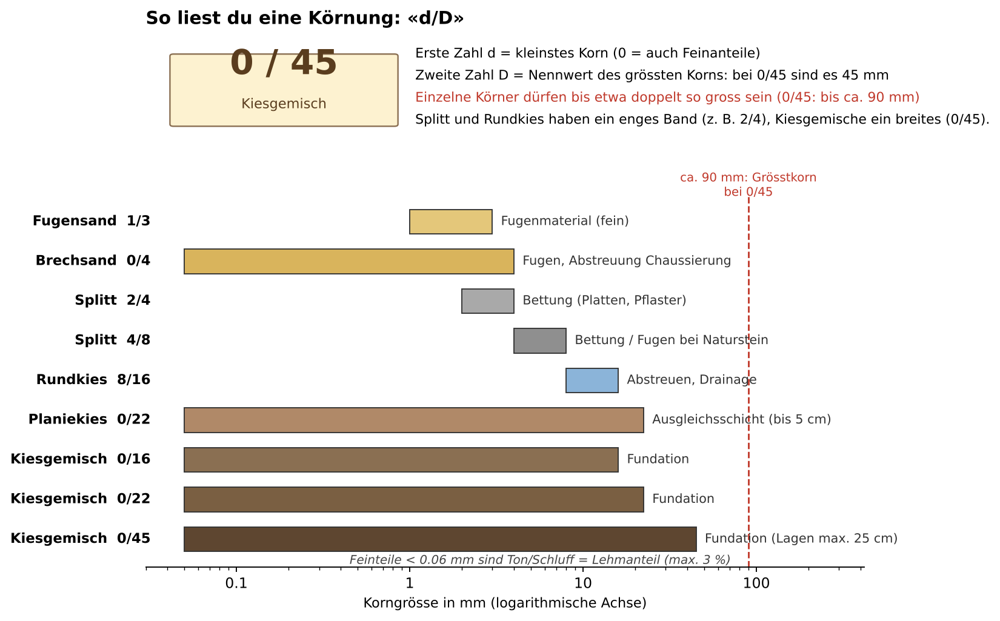
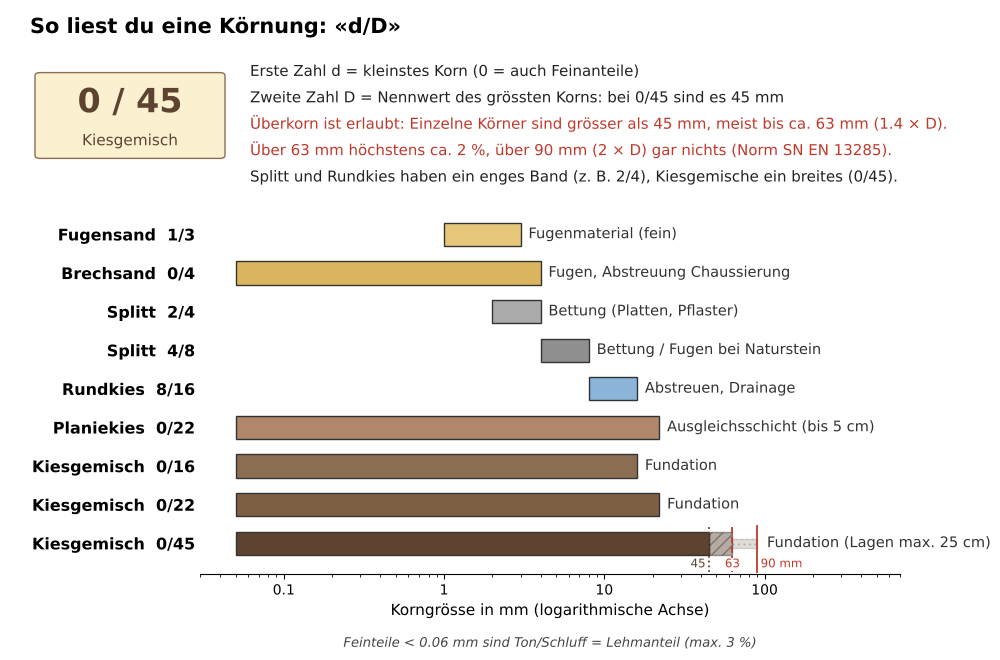
Belagsaufbau: Korngrössen nach Norm korrigiert (Überkorn statt «Grösstkorn ca. 90 mm»)
Quiz Körnungen (4 Fragen), Lernkarte 0/45 und Grafik korngroesse.png angepasst.
Nennwert D, Überkorn meist bis 1.4 × D (63 mm), absolute Obergrenze 2 × D (90 mm).
Fragenzahl und Reihenfolge unverändert, gespeicherter Fortschritt bleibt gültig.

Claude-Session: https://claude.ai/code/session_01BwZckB3sWXSTZ1BpiqGMYE

Changed region(s): [[0.0, 0.3366, 0.992, 0.9791], [0.031, 0.0, 0.992, 0.3366], [0.031, 0.3366, 0.217, 0.3671]]

diff --git a/belagsaufbau/koernung/index.html b/belagsaufbau/koernung/index.html
@@ -2,4 +2,4 @@
 <div class="hero"><a href="../">← Alle Lernpfade</a><div class="who" id="who"></div><h1>🔬 Körnungen und Fundationsmaterial</h1><p>Was bedeuten 0/45, 2/4 oder 4/8? Welches Material gehört in welche Schicht und warum?</p></div>
 <div class="wrap"><div class="chips" style="margin:0 0 .8rem"><span class="chip">L169</span></div><div id="stg"></div><div id="app"></div></div>
 <script src="../assets/config.js"></script><script src="../assets/core.js"></script>
-<script>const CFG={"type": "multi", "title": "Körnungen und Fundationsmaterial", "slug": "koernung", "stages": [{"type": "quiz", "title": "Körnungen lesen", "questions": [{"q": "Was bedeutet die Angabe <b>0/45</b>?", "opts": ["Korngemisch vom Feinen bis zum Nennwert 45 mm", "Nur Körner von genau 45 mm", "45 Prozent Feinanteil", "Körnung in Zentimetern"], "a": 0, "why": "0 = kleinstes Korn (auch Feinanteile), 45 = Nennwert des grössten Korns in mm.", "img": "img/korngroesse.png"}, {"q": "Wie gross kann das <b>Grösstkorn</b> bei Kiesgemisch 0/45 sein?", "opts": ["22 mm", "45 mm", "ca. 90 mm", "150 mm"], "a": 2, "why": "Einzelne Körner dürfen bis etwa doppelt so gross sein.", "img": "img/korngroesse.png"}, {"q": "Welche Körnung eignet sich für die <b>Bettung</b> unter Platten und Pflaster?", "opts": ["Splitt 2/4", "Kiesgemisch 0/45", "Rundkies 16/32", "Mergel"], "a": 0, "why": "Bettung: Splitt 2/4 (oder 4/8 bei Naturstein)."}, {"q": "Welche Körnung wird als <b>Fundation</b> eingebaut?", "opts": ["Fugensand 1/3", "Kiesgemisch 0/45", "Brechsand 0/4", "Splitt 2/4"], "a": 1, "why": "Kiesgemisch 0/16, 0/22 oder 0/45."}, {"q": "Welches Material gehört in die <b>Ausgleichsschicht</b>?", "opts": ["Planiekies 0/22", "Mergel", "Humus", "Findlinge"], "a": 0, "why": "Gebrochene Kiessandgemische wie Planiekies 0/22."}, {"q": "Warum ist ein Kiesgemisch <b>0/45</b> für die Reinplanie (±1 cm) ungeeignet?", "opts": ["Das Grösstkorn (ca. 90 mm) ist zu gross", "Es ist zu fein", "Es ist zu teuer", "Es ist nicht frostsicher"], "a": 0, "why": "Einzelne grosse Körner verhindern die genaue Oberfläche, darum die Ausgleichsschicht."}, {"q": "Wie viel Lehm darf ein Kiesgemisch für die Fundation höchstens enthalten?", "opts": ["0 %", "3 %", "10 %", "25 %"], "a": 1, "why": "Lehmanteil max. 3 %."}, {"q": "Welche Körnung passt zum <b>Einwischen der Fugen</b> von Verbundsteinen?", "opts": ["Brechsand 0/4", "Kiesgemisch 0/45", "Rundkies 16/32", "Schotter 32/63"], "a": 0, "why": "Fugen mit Brechsand 0/4."}]}, {"type": "quiz", "title": "Material geeignet oder nicht?", "questions": [{"q": "Kiesgemisch 0/45 als Fundationsmaterial?", "opts": ["Geeignet", "Nicht geeignet"], "a": 0, "why": "Kiesgemische 0/16, 0/22, 0/45 sind frostsicher und wasserdurchlässig."}, {"q": "Mergel als Fundationsmaterial?", "opts": ["Geeignet", "Nicht geeignet"], "a": 1, "why": "Mergel enthält viel Ton, ist nicht frostsicher und wird nur als Deckschicht (Chaussierung) eingebaut."}, {"q": "Oberboden / Humus in der Fundation?", "opts": ["Geeignet", "Nicht geeignet"], "a": 1, "why": "Frostsicher ist ein Material nur, wenn es kein organisches Material enthält."}, {"q": "Wie hoch darf der Lehmanteil eines Kiesgemischs höchstens sein?", "opts": ["0 %", "3 %", "10 %", "25 %"], "a": 1, "why": "Der Lehmanteil beträgt maximal 3 %."}, {"q": "Wie gross ist das Grösstkorn bei Kiesgemisch 0/45?", "opts": ["22 mm", "45 mm", "ca. 90 mm", "150 mm"], "a": 2, "why": "Das Einzelkorn kann bis ca. doppelt so gross wie der Nennwert sein (90 mm)."}, {"q": "Wofür wird Planiekies 0/22 verwendet?", "opts": ["Für die Fundation (untere Lage)", "Für die Ausgleichsschicht", "Für die Deckschicht", "Als Randbeton"], "a": 1, "why": "Gebrochene Kiessandgemische (Planiekies, Strassenkies, Flickschotter 0/16–0/22) dienen als Ausgleichsschicht."}, {"q": "Wie dick ist die Ausgleichsschicht höchstens?", "opts": ["1 cm", "5 cm", "10 cm", "25 cm"], "a": 1, "why": "Empfohlen bis 5 cm."}, {"q": "Was ist RC-Kies?", "opts": ["Reiner Rundkies", "Recycling-Kiesgemisch", "Rohkies, nicht gebrochen", "Rasenkies"], "a": 1, "why": "RC-Kiesgemische sind Recycling-Gemische (z. B. A, B, P); wo möglich sollen sie eingesetzt werden."}, {"q": "Wird Sickerbeton als Fundation verwendet, dann ...", "opts": ["verdoppelt sich die Schichtstärke", "reduziert sich die Schichtstärke um 50 %", "bleibt die Schichtstärke gleich", "ist keine Fundation nötig"], "a": 1, "why": "Bei Sickerbeton reduziert sich die geforderte Schichtstärke um 50 %."}, {"q": "Warum muss Fundationsmaterial frostsicher sein?", "opts": ["Damit es billiger ist", "Damit die Frostwirkung auf den Untergrund reduziert wird", "Damit es schöner aussieht", "Damit es rutscht"], "a": 1, "why": "Dadurch reduziert sich die Frostwirkung auf den Untergrund."}]}, {"type": "quiz", "title": "Fälle: Welches Material nimmst du?", "questions": [{"q": "Du brauchst Material für die Bettung unter Betonplatten. Was wählst du?", "opts": ["Kiesgemisch 0/45", "Splitt 2/4 (bzw. 4/8)", "Rundkies 8/16 ohne Feinanteil", "Humus"], "a": 1, "why": "Die Bettung besteht aus Splitt in kleiner Körnung, gut abziehbar."}, {"q": "Für die Fundation willst du ein Material, das sich gut verdichten lässt. Was ist wichtig?", "opts": ["Nur ein Korn, möglichst rund", "Ein Korngemisch von fein bis grob (z. B. 0/45), das sich verzahnt", "Nur Feinsand", "Lehmiger Aushub"], "a": 1, "why": "Ein abgestuftes Korngemisch verzahnt sich und wird dicht. Rundes Einkorn verdichtet schlecht."}, {"q": "Welche Aussage zu «0/45» stimmt?", "opts": ["Das kleinste Korn ist 45 mm", "Das grösste Korn ist 45 mm, es enthält auch Feines bis 0 mm", "Es ist ein Monokorn", "Es wird nur für Beton verwendet"], "a": 1, "why": "Die zweite Zahl ist das Grösstkorn, die erste das Kleinstkorn. 0/45 ist ein Gemisch."}, {"q": "Warum soll das Fundationsmaterial frostsicher und wasserdurchlässig sein?", "opts": ["Damit es billiger ist", "Damit sich kein Wasser staut, das im Winter gefriert und den Belag hebt", "Damit es schöner aussieht", "Damit es weniger wiegt"], "a": 1, "why": "Gefrierendes Wasser dehnt sich aus und hebt den Belag (Frosthebung)."}], "info": null, "count": 4}]};</script><script src="../assets/engine.js"></script><script>startApp()</script><p class="copy">© Tobias Abt, BBZ BL</p></body></html>
+<script>const CFG={"type": "multi", "title": "Körnungen und Fundationsmaterial", "slug": "koernung", "stages": [{"type": "quiz", "title": "Körnungen lesen", "questions": [{"q": "Was bedeutet die Angabe <b>0/45</b>?", "opts": ["Korngemisch vom Feinen bis zum Nennwert 45 mm", "Nur Körner von genau 45 mm", "45 Prozent Feinanteil", "Körnung in Zentimetern"], "a": 0, "why": "0 = kleinstes Korn (auch Feinanteile), 45 = Nennwert des grössten Korns in mm.", "img": "img/korngroesse.png"}, {"q": "Was stimmt beim Kiesgemisch <b>0/45</b> nach Norm?", "opts": ["Kein Korn ist grösser als 45 mm, alles darüber wird ausgesiebt", "Es hat nur Körner zwischen 0 und 22 mm, der Rest ist Sand", "Einzelne Körner dürfen grösser als 45 mm sein, aber nie über 90 mm", "Etwa die Hälfte der Körner ist grösser als 45 mm, bis 150 mm"], "a": 2, "why": "45 mm ist der Nennwert D. Überkorn ist erlaubt: meist bis ca. 63 mm (1.4 × D), darüber höchstens ca. 2 %, über 90 mm (2 × D) gar nichts.", "img": "img/korngroesse.png"}, {"q": "Welche Körnung eignet sich für die <b>Bettung</b> unter Platten und Pflaster?", "opts": ["Splitt 2/4", "Kiesgemisch 0/45", "Rundkies 16/32", "Mergel"], "a": 0, "why": "Bettung: Splitt 2/4 (oder 4/8 bei Naturstein)."}, {"q": "Welche Körnung wird als <b>Fundation</b> eingebaut?", "opts": ["Fugensand 1/3", "Kiesgemisch 0/45", "Brechsand 0/4", "Splitt 2/4"], "a": 1, "why": "Kiesgemisch 0/16, 0/22 oder 0/45."}, {"q": "Welches Material gehört in die <b>Ausgleichsschicht</b>?", "opts": ["Planiekies 0/22", "Mergel", "Humus", "Findlinge"], "a": 0, "why": "Gebrochene Kiessandgemische wie Planiekies 0/22."}, {"q": "Warum ist ein Kiesgemisch <b>0/45</b> für die Reinplanie (±1 cm) ungeeignet?", "opts": ["Die groben Körner (45 mm und mehr) sind viel zu gross", "Es ist zu fein", "Es ist zu teuer", "Es ist nicht frostsicher"], "a": 0, "why": "Für ±1 cm (= 10 mm) sind Körner von 45 mm und mehr viel zu gross. Darum kommt darauf die Ausgleichsschicht aus Planiekies 0/22."}, {"q": "Wie viel Lehm darf ein Kiesgemisch für die Fundation höchstens enthalten?", "opts": ["0 %", "3 %", "10 %", "25 %"], "a": 1, "why": "Lehmanteil max. 3 %."}, {"q": "Welche Körnung passt zum <b>Einwischen der Fugen</b> von Verbundsteinen?", "opts": ["Brechsand 0/4", "Kiesgemisch 0/45", "Rundkies 16/32", "Schotter 32/63"], "a": 0, "why": "Fugen mit Brechsand 0/4."}]}, {"type": "quiz", "title": "Material geeignet oder nicht?", "questions": [{"q": "Kiesgemisch 0/45 als Fundationsmaterial?", "opts": ["Geeignet", "Nicht geeignet"], "a": 0, "why": "Kiesgemische 0/16, 0/22, 0/45 sind frostsicher und wasserdurchlässig."}, {"q": "Mergel als Fundationsmaterial?", "opts": ["Geeignet", "Nicht geeignet"], "a": 1, "why": "Mergel enthält viel Ton, ist nicht frostsicher und wird nur als Deckschicht (Chaussierung) eingebaut."}, {"q": "Oberboden / Humus in der Fundation?", "opts": ["Geeignet", "Nicht geeignet"], "a": 1, "why": "Frostsicher ist ein Material nur, wenn es kein organisches Material enthält."}, {"q": "Wie hoch darf der Lehmanteil eines Kiesgemischs höchstens sein?", "opts": ["0 %", "3 %", "10 %", "25 %"], "a": 1, "why": "Der Lehmanteil beträgt maximal 3 %."}, {"q": "Ein Kollege sagt: «Im Kiesgemisch 0/45 hat es keinen Stein über 45 mm.» Stimmt das?", "opts": ["Ja, 45 mm ist das absolute Maximum für jedes Korn", "Ja, alles über 45 mm wird im Kieswerk immer ausgesiebt", "Nein: Überkorn ist erlaubt, meist bis ca. 63 mm, nie über 90 mm", "Nein: Es hat viele Steine von 100 bis 150 mm"], "a": 2, "why": "Die Norm erlaubt Überkorn. Über 63 mm (1.4 × D) höchstens ca. 2 %, über 90 mm (2 × D) keines."}, {"q": "Wofür wird Planiekies 0/22 verwendet?", "opts": ["Für die Fundation (untere Lage)", "Für die Ausgleichsschicht", "Für die Deckschicht", "Als Randbeton"], "a": 1, "why": "Gebrochene Kiessandgemische (Planiekies, Strassenkies, Flickschotter 0/16–0/22) dienen als Ausgleichsschicht."}, {"q": "Wie dick ist die Ausgleichsschicht höchstens?", "opts": ["1 cm", "5 cm", "10 cm", "25 cm"], "a": 1, "why": "Empfohlen bis 5 cm."}, {"q": "Was ist RC-Kies?", "opts": ["Reiner Rundkies", "Recycling-Kiesgemisch", "Rohkies, nicht gebrochen", "Rasenkies"], "a": 1, "why": "RC-Kiesgemische sind Recycling-Gemische (z. B. A, B, P); wo möglich sollen sie eingesetzt werden."}, {"q": "Wird Sickerbeton als Fundation verwendet, dann ...", "opts": ["verdoppelt sich die Schichtstärke", "reduziert sich die Schichtstärke um 50 %", "bleibt die Schichtstärke gleich", "ist keine Fundation nötig"], "a": 1, "why": "Bei Sickerbeton reduziert sich die geforderte Schichtstärke um 50 %."}, {"q": "Warum muss Fundationsmaterial frostsicher sein?", "opts": ["Damit es billiger ist", "Damit die Frostwirkung auf den Untergrund reduziert wird", "Damit es schöner aussieht", "Damit es rutscht"], "a": 1, "why": "Dadurch reduziert sich die Frostwirkung auf den Untergrund."}]}, {"type": "quiz", "title": "Fälle: Welches Material nimmst du?", "questions": [{"q": "Du brauchst Material für die Bettung unter Betonplatten. Was wählst du?", "opts": ["Kiesgemisch 0/45", "Splitt 2/4 (bzw. 4/8)", "Rundkies 8/16 ohne Feinanteil", "Humus"], "a": 1, "why": "Die Bettung besteht aus Splitt in kleiner Körnung, gut abziehbar."}, {"q": "Für die Fundation willst du ein Material, das sich gut verdichten lässt. Was ist wichtig?", "opts": ["Nur ein Korn, möglichst rund", "Ein Korngemisch von fein bis grob (z. B. 0/45), das sich verzahnt", "Nur Feinsand", "Lehmiger Aushub"], "a": 1, "why": "Ein abgestuftes Korngemisch verzahnt sich und wird dicht. Rundes Einkorn verdichtet schlecht."}, {"q": "Welche Aussage zu «0/45» stimmt?", "opts": ["Das kleinste Korn ist 45 mm", "Der Nennwert des grössten Korns ist 45 mm, es enthält auch Feines bis 0 mm", "Es ist ein Monokorn", "Es wird nur für Beton verwendet"], "a": 1, "why": "Die erste Zahl ist das Kleinstkorn, die zweite der Nennwert des Grösstkorns (einzelne Körner dürfen etwas grösser sein). 0/45 ist ein Gemisch."}, {"q": "Warum soll das Fundationsmaterial frostsicher und wasserdurchlässig sein?", "opts": ["Damit es billiger ist", "Damit sich kein Wasser staut, das im Winter gefriert und den Belag hebt", "Damit es schöner aussieht", "Damit es weniger wiegt"], "a": 1, "why": "Gefrierendes Wasser dehnt sich aus und hebt den Belag (Frosthebung)."}], "info": null, "count": 4}]};</script><script src="../assets/engine.js"></script><script>startApp()</script><p class="copy">© Tobias Abt, BBZ BL</p></body></html>
